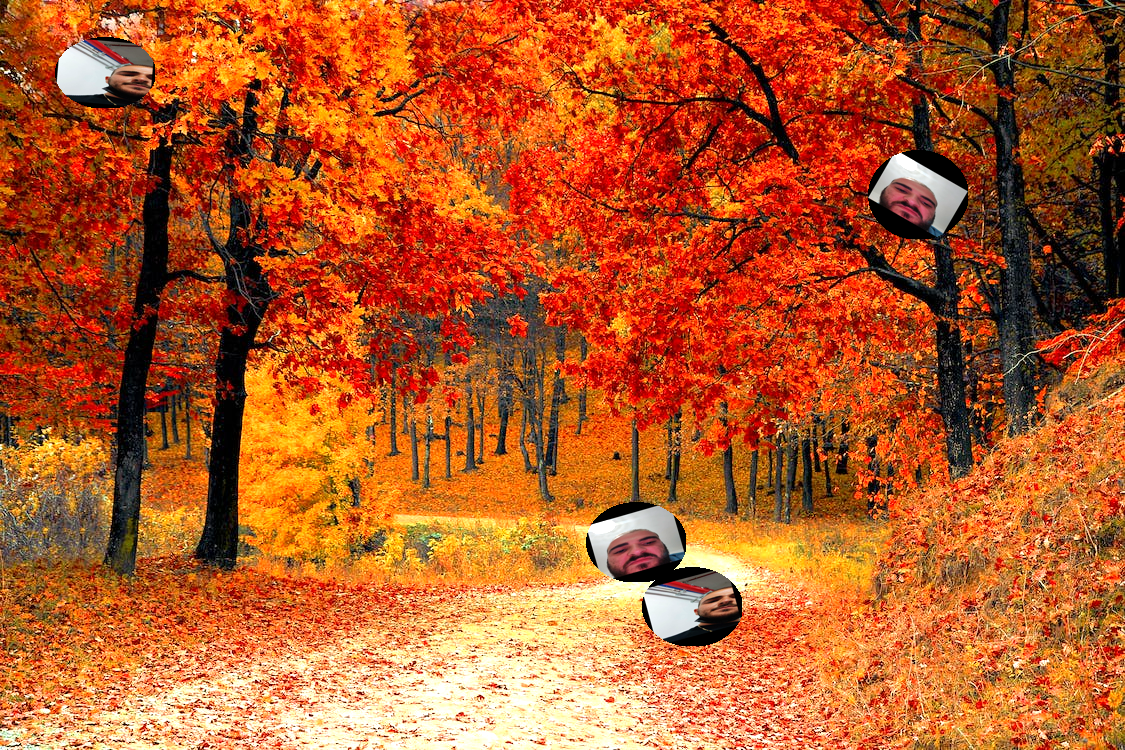
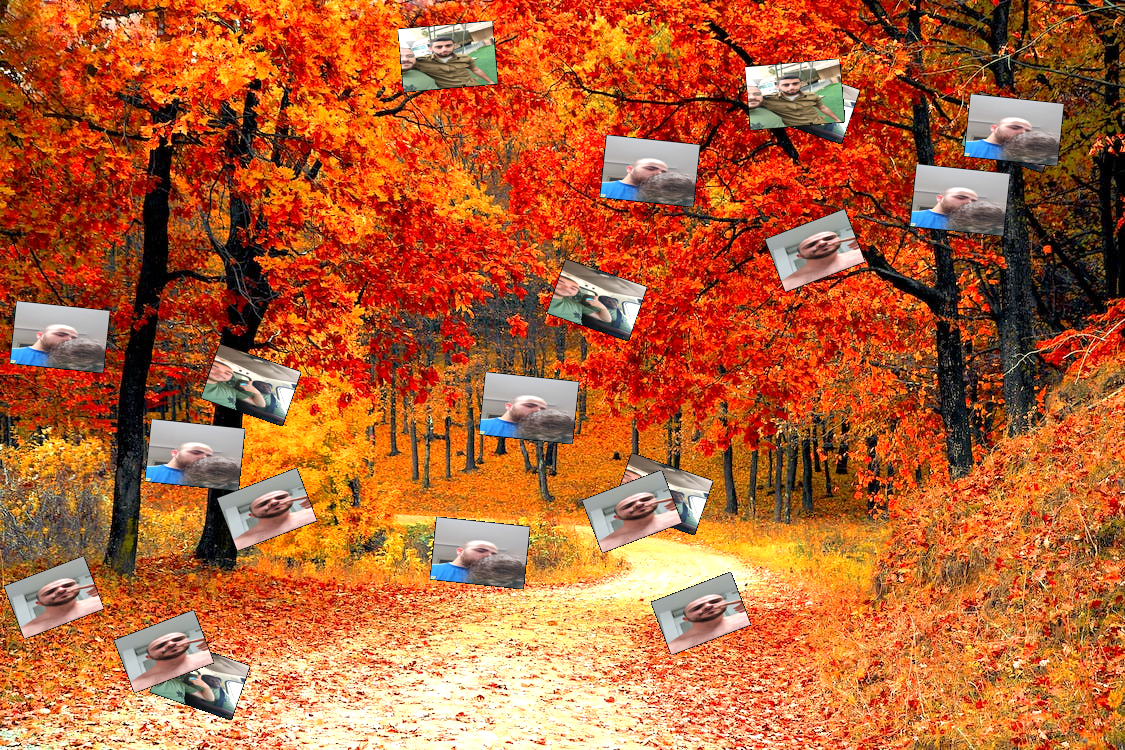
added some shit

diff --git a/app.py b/app.py
@@ -17,63 +17,64 @@ def generate_wallpaper():
     # Load the user's uploaded image
     image_file = request.files["image"]
     names = request.form.getlist("names")
-    
+
     # Save the uploaded image
     image_file.save(os.path.join(app.config["UPLOAD_FOLDER"], "upload.png"))
-    
+
     # Load the face images and select the ones with matching names
     face_images = [
-        Image.open(os.path.join(app.config["IMAGE_FOLDER"], f"{name}.jpg"))
-        for name in names if os.path.isfile(os.path.join(app.config["IMAGE_FOLDER"], f"{name}.jpg"))
     ]
 
     for name in names:
         image_path = os.path.join(app.config["IMAGE_FOLDER"], f"{name}.jpg")
         if os.path.isfile(image_path):
             face_image = Image.open(image_path)
-            # Resize the face image to a smaller size
-            face_images.append(face_image)
-    
+        else:
+            continue
+        face_images.append(face_image)
+
     # Load the original image
-    original_image = Image.open(os.path.join(app.config["UPLOAD_FOLDER"], "upload.png"))
-    
+    original_image = Image.open(os.path.join(
+        app.config["UPLOAD_FOLDER"], "upload.png"))
+
     # Convert the mode of the original image to 'RGBA' if it does not have an alpha channel
     if original_image.mode != 'RGBA':
         original_image = original_image.convert('RGBA')
-    
+
     # Paste the face images on the original image
     for i, face_image in enumerate(random.sample(face_images, min(16, len(face_images)))):
         # Select a random position and rotation for the face image
         angle = random.randint(-30, 30)
         if face_image.width > original_image.width or face_image.height > original_image.height:
             # Resize the face image to fit within the original image
-            face_image = face_image.resize((original_image.width // 2, original_image.height // 2))
+            face_image = face_image.resize(
+                (original_image.width // 2, original_image.height // 2))
 
         # Rotate the face image
-        rotated_image = face_image.rotate(angle, expand=True, fillcolor=(0, 0, 0, 0))
+        rotated_image = face_image.rotate(
+            angle, expand=True, fillcolor=(0, 0, 0, 0))
         optimal_size = calculate_optimal_size(rotated_image.size, 100)
         rotated_image = rotated_image.resize(optimal_size)
 
         # Remove the black background
         mask = Image.new("L", rotated_image.size, 0)
         draw = ImageDraw.Draw(mask)
-        draw.ellipse((0, 0, rotated_image.width, rotated_image.height), fill=255)
+        draw.rectangle([(0, 0), rotated_image.size], fill=255, outline=None)
+        for x in range(rotated_image.width):
+            for y in range(rotated_image.height):
+                if rotated_image.getpixel((x, y)) == (0, 0, 0):
+                    draw.point((x, y), fill=0)
+
+        # Paste the rotated image on the original image
         rotated_image.putalpha(mask)
+        num_copies = random.randint(1, 5)
+        for i in range(num_copies):
+            position = (
+                random.randint(0, original_image.width - rotated_image.width),
+                random.randint(0, original_image.height - rotated_image.height)
+            )
+            original_image.alpha_composite(rotated_image, position)
 
-        # Paste the face image on the original image
-        position = (
-            random.randint(0, original_image.width - rotated_image.width),
-            random.randint(0, original_image.height - rotated_image.height)
-        )
-        original_image.alpha_composite(rotated_image, position)
-
-        """ # Rotate and paste the face image on the original image
-        x_offset = random.randint(-original_image.width//4, original_image.width//4)
-        y_offset = random.randint(-original_image.height//4, original_image.height//4)
-        face_image = face_image.rotate(angle, expand=True)
-        face_image = face_image.convert("RGBA")
-        original_image.alpha_composite(face_image, (x_offset, y_offset))"""
-    
     # Enhance the colors and brightness of the wallpaper
     enhancer = ImageEnhance.Color(original_image)
     original_image = enhancer.enhance(1.2)
@@ -82,10 +83,11 @@ def generate_wallpaper():
 
     wallpaper_path = os.path.join(app.config["UPLOAD_FOLDER"], "wallpaper.png")
     original_image.save(wallpaper_path)
-    
+
     # Return the URL of the wallpaper file
     url = f"http://127.0.0.1:5000/{wallpaper_path}"
     return url
+
 
 def calculate_optimal_size(original_size, max_size):
     """
@@ -108,6 +110,7 @@ def calculate_optimal_size(original_size, max_size):
 
 
 UPLOAD_FOLDER = os.path.abspath("uploads")
+
 
 @app.route("/uploads/<path:path>")
 def serve_upload(path):
